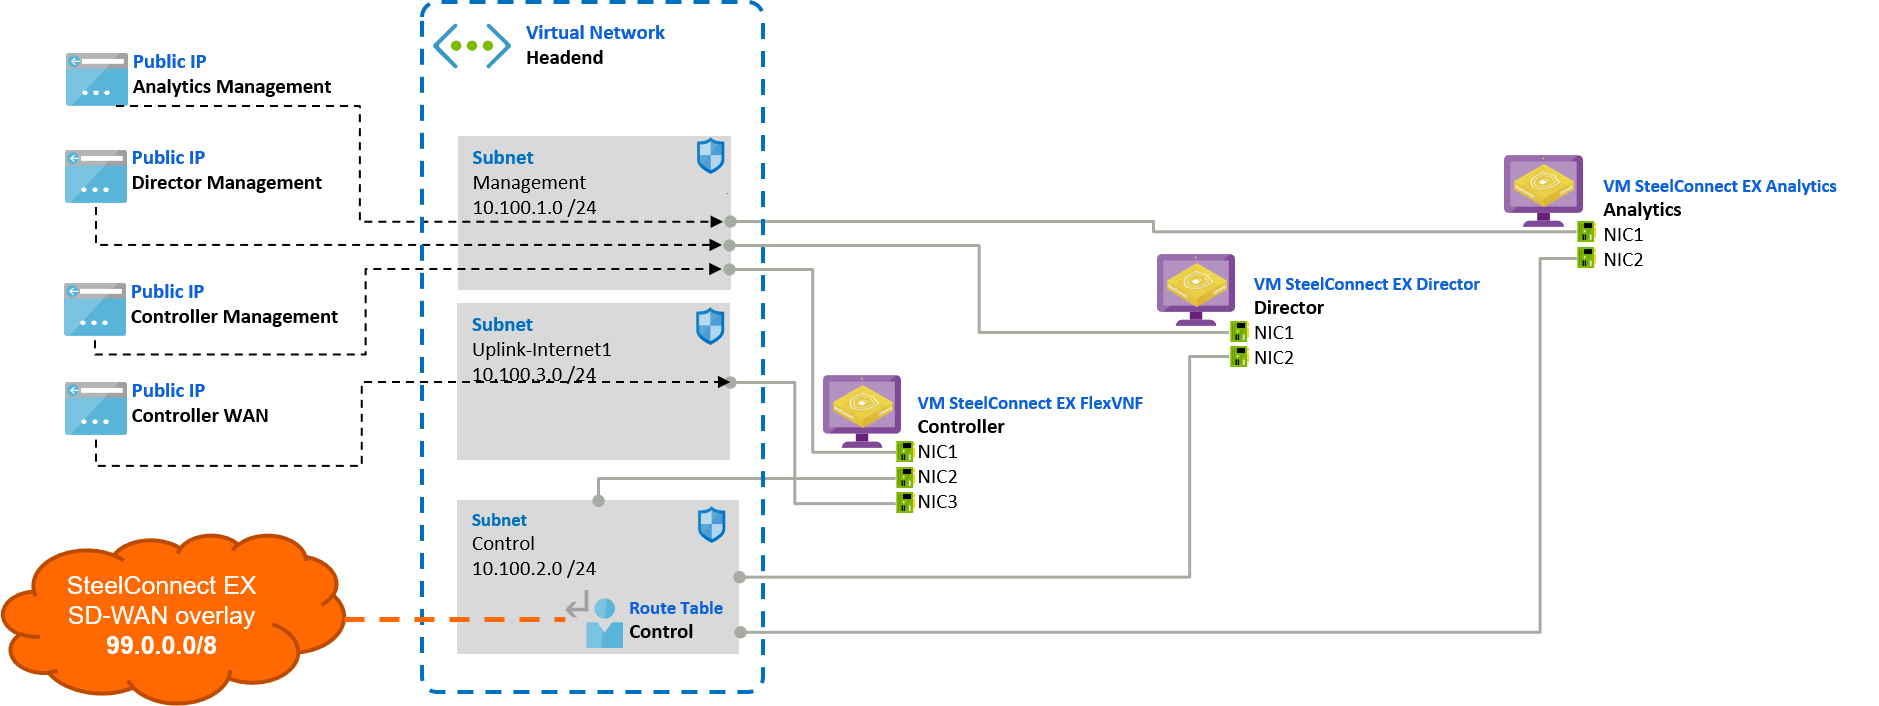
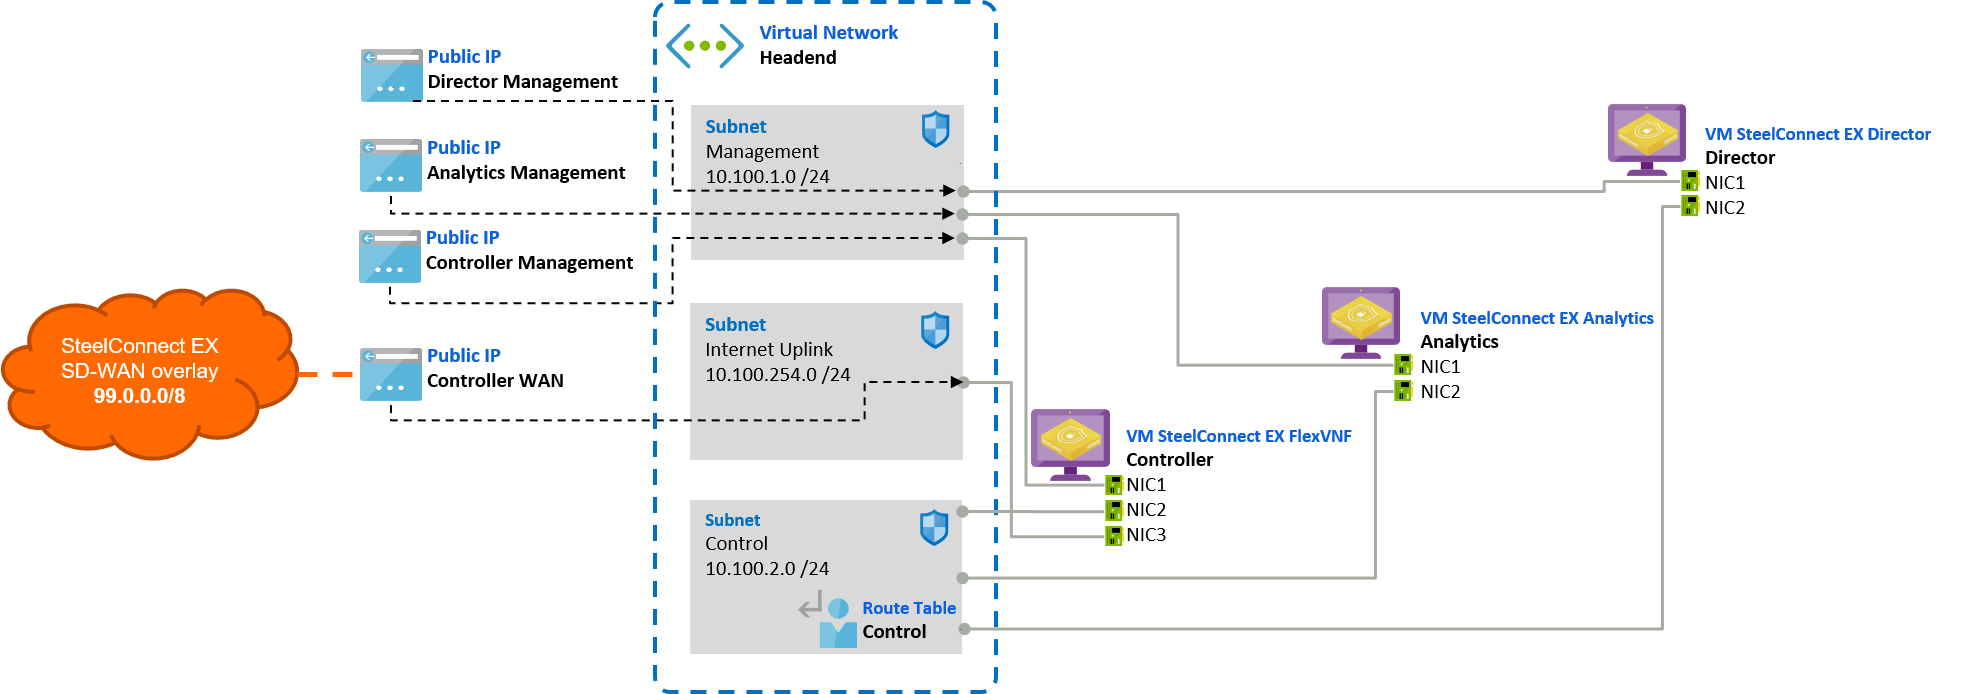
Update SteelConnect-EX in Azure easy cookbook

Changed region(s): [[0.0, 0.1513, 0.9878, 1.0], [0.0309, 0.0, 0.4939, 0.1513], [0.0, 0.7565, 0.1852, 1.0]]

diff --git a/SteelConnect/Azure-DeployHeadend/README.md b/SteelConnect/Azure-DeployHeadend/README.md
@@ -6,12 +6,15 @@
     - [1. Create Azure Image Resources](#1-create-azure-image-resources)
     - [2. Deploy using Terraform template](#2-deploy-using-terraform-template)
 - [Usage](#usage)
-    - [Configure your headend](#configure-your-headend)
-    - [Connect to the appliances](#connect-to-the-appliances)
+- [How to](#how-to)
 
 ## Overview
 
-This cookbook explains how to deploy a SteelConnect-EX Standalone Headend in Azure, in the location of your choice.
+The Riverbed Community Toolkit provides this cookbook to deploy an SteelConnect-EX Standalone Headend in Azure.
+
+Some easy steps are described in the prerequisites and deployment sections. The how-to section contains more details or advanced topics.
+
+With this cookbook you will deploy the architecture below in the Azure location of your choice.
 
 ![cloud architecture](images/steelconnect-ex-headend-standalone-architecture.png)
 
@@ -20,24 +23,34 @@ The Cookbook uses the following parameters and default values.
 | Parameters | Default Value |
 | --- | --- |
 | SD-WAN overlay network | 99.0.0.0 /8 |
-| VNET | 10.100.0.0/16 |
+| VNET | 10.100.0.0/16 <ul><li>Management subnet: 10.100.1/24</li><li>Control subnet: 10.100.2/24</li><li>Internet Uplink subnet: 10.100.254/24</li></ul>|
 | Azure VM Size | Standard_F8s_v2 |
 | Azure Location* | *no default value* |
-| SSH keypair | *generated in local files ssh-timestamp and ssh-timestamp.pub* |
-| passphrase of SSH key | riverbed-community |
+| SSH keypair | *generated in local files sshkey-timestamp and sshkey-timestamp.pub* |
+| SSH key passphrase | riverbed-community |
+| Analytics Southbound port | 1234 |
 
-> The cookbook let you choose any **Azure Location** for the deployment, for example **West-US**, **West-Europe** or **Korea Central**. Thus in some location the default VM size is not available, for example Standard_F8s_v2 is currently not available in Switzerland North, in that case please refer to the SteelConnect deployment guide and adapt the cookbook script parameters to use an other VM size.
+> Any **Azure Location** can be chosen for the deployment, for example **West-US**, **West-Europe** or **Korea Central**. Thus in some location the default VM size is not available, for example Standard_F8s_v2 is currently not available in Switzerland North, in that case please refer to the SteelConnect deployment guide and adapt the cookbook script parameters to use an other VM size.
 
 ## Prerequisites
 
+### 1. Azure subscription with enough vCPU Quota
+
 | Tasks | Description |
 | --- | --- |
-| 1. Connect to the Azure Portal and check there is enough vCPU available in the target location: navigate to your Subscription details, open Usage and Quota menu|<ul><li>Sign-in on [Azure portal](https://portal.azure.com)</li><li>At least **24 vCPU available for the Standard FsV2 Compute in the target Location**</li><li>Hit "Request Increase" button if you need more vCPU</li></ul>![quota](images/azure-westus-fsv2-quota.png)|
-| 2. Create a resource group in the location where you will deploy SteelConnect EX appliances| <ul><li>Resource Group name: **Riverbed-Images**</li><li>Location: **Target location for appliances**</li></ul> |
-| 3. Create a Storage Account resource  | <ul><li>Storage Account Name: *a unique name*</li><li>Location: **Target location for appliances**</li><li>Replication: Locally-redundant storage (LRS) is ok</li></ul> |
-| 4. Create a Blob container in the Storage Account previously created | <ul><li>Container name: **images**</li></ul> |
-| 5. Generate a temporary Shared Access Signature for this Storage Account/Container | <ul><li>End date: few days</li><li>Hit **Generate SAS and connection string**</li></ul>![azure-sa-sas-creation](images/azure-sa-sas-creation.png)|
-| 6. Send a request to Riverbed Support with the **SAS and connecting string** generated previously and check you received images in your Blob Container: FlexVNF, Director and Analytics |<ul><li>Request to [Riverbed Support](https://support.riverbed.com/)</li></ul> |
+| 1. Connect to the Azure Portal | <ul><li>Sign-in on [Azure portal](https://portal.azure.com)</li></ul> |
+| 2. Check there is enough vCPU available in the target location: navigate to your Subscription details, open Usage and Quota menu. If required hit "Request Increase" button to increase the quota |<ul><li> **24 vCPU available for the Standard FsV2 Compute in the target Location**</li></ul>![quota](images/azure-westus-fsv2-quota.png)|
+
+### 2. All the VHD in a Blob Container
+
+| Tasks | Description |
+| --- | --- |
+| 1. Create a resource group in the location where you will deploy SteelConnect EX appliances| <ul><li>Resource Group name: **Riverbed-Images**</li><li>Location: **your target location for appliances**</li></ul> |
+| 2. Create a Storage Account resource in the resource group previously created  | <ul><li>Storage Account Name: *a unique name*</li><li>Location: **your target location for appliances**</li><li>Replication: Locally-redundant storage (LRS) is ok</li></ul> |
+| 3. Create a Blob container in the Storage Account previously created | <ul><li>Container name: **images**</li></ul> |
+| 4. Generate a temporary Shared Access Signature for this Storage Account/Container. Hit **Generate SAS and connection string** button | <ul><li>Allowed services: Blob</li><li>End date: few days</li></ul>![azure-sa-sas-creation](images/azure-sa-sas-creation.png)|
+| 5. Send a request to Riverbed Support with the **SAS and connection string** generated previously |<ul><li>Request to [Riverbed Support](https://support.riverbed.com/)</li></ul> |
+| 6. Check that all the .vhd files are in the Blob Container |<ul><li>3 VHD files: SteelConnect EX FlexVNF, Director and Analytics</li></ul> |
 
 ## Deployment
 
@@ -46,7 +59,7 @@ The Cookbook uses the following parameters and default values.
 | Tasks | Description |
 | --- | --- |
 | 1. In the Azure Portal, navigate to the Resource group **Riverbed Images** |Go to [Azure portal](https://portal.azure.com)|
-| 2. Add new resource, select Image, and hit Create new| ![add button](images/azure-resource-group-add-button.png) |
+| 2. Add a new resource, select Image, and hit Create new| ![add button](images/azure-resource-group-add-button.png) |
 | 3. Fill parameters to create an Image resource for the **SteelConnect EX FlexVNF**| <ul><li>Name: **steelconnect-ex-flexvnf**</li><li>Location: **Target location** for appliances</li><li>OS disk type: **Linux**</li><li>Storage Blob: url of the **flexvnf vhd** in the storage account blobs container</li><li>Storage type: Premium SSD recommended</li></ul>|
 | 4. Repeat **step 2.** and fill the parameters to create an Image resource for the **SteelConnect EX Director**| <ul><li>Name: **steelconnect-ex-director**</li><li>Location: **Target location** for appliances</li><li>OS disk type: **Linux**</li><li>Storage Blob: url of the **director vhd** in the storage account blobs container</li><li>Storage type: Premium SSD recommended</li></ul>|
 | 5. Repeat **step 2.** and fill the parameters to create an Image resource for the **SteelConnect EX Analytics**| <ul><li>Name: **steelconnect-ex-analytics**</li><li>Location: **Target location** for appliances</li><li>OS disk type: **Linux**</li><li>Storage Blob: url of the **analytics vhd** in the storage account blobs container</li><li>Storage type: Premium SSD recommended</li></ul>|
@@ -72,7 +85,7 @@ The following PowerShell commands initialize the console and download the source
 # i.e check subscription and tenant id are correct
 Get-AzContext
 
-# Comment our the line below and replace {your subscription name} if you need to select a different subscription
+# uncomment the line below and replace {your subscription name} if you need to select a different subscription
 # Set-AzContext -SubscriptionName "{your subscription name}"
 
 # Get a local copy of the Riverbed Community Toolkit scripts from Github
@@ -81,7 +94,7 @@ git clone https://github.com/riverbed/Riverbed-Community-Toolkit.git
 
 #### 3. Stage variables for Terraform
 
-The following PowerShell commands prepare the parameters file *terraform.vartf* for Terraform and generate a keypair for SSH stored local files *ssh-timestamp* and *ssh-timestamp.pub*.
+The following PowerShell commands prepare the parameters file *terraform.vartf* for Terraform and generate a keypair for SSH stored local files *sshkey-timestamp* and *sshkey-timestamp.pub*.
 
 ```PowerShell
 Set-Location ./Riverbed-Community-Toolkit
@@ -92,7 +105,7 @@ Set-Location ./SteelConnect/Azure-DeployHeadend/scripts
 
 #### 4. Deploy Terraform
 
-The following PowerShell commands launch the deployment using Terraform ((init, plan and apply)
+The following PowerShell commands launch the deployment using Terraform (init, plan and apply)
 
 ```PowerShell
 ../../Azure-DeployHeadend/scripts/SteelConnect-EX_Deploy-Terraform.ps1
@@ -100,7 +113,7 @@ The following PowerShell commands launch the deployment using Terraform ((init, 
 
 #### 5. Keep the output
 
-After 3 to 5 minutes, the deployment finishes and the Terraform deployment output gives useful information such as WebConsole URL and Public IP for each appliance.
+Usually after 5 to 6 minutes, the deployment finishes and the Terraform deployment output gives useful information such as WebConsole URL and Public IP for each appliance.
 
 ![terraform output](./images/steelconnect-ex-terraform-output.png)
 
@@ -110,35 +123,74 @@ In the Azure portal, the resource group contains all the resources.
 
 ## Usage
 
-### Configure your headend
-
 At this point you should be good to configure your headend as you have learnt during the bootcamp. Typically you will:
-- Set administrators password
+- Define a connector to the Analytics cluster and register your analytics node
 - Create the initial Organization and some others using the workflow
-- Create an Analytics cluster
 - Deploy a controller with staging capabilities using the workflow
 - Check VPN profile id details on the staging controller
-- Define device creation workflow and try onboarding some devices
-- Generate a nodesid to obtain a license
+- Define workflow template for device creation and try onboarding some devices
+- For Security, set strong passwords, filter management traffic or just remove the un-necessary Public IPs bound to management NICs in Azure (for example remove the management public IP of the Controller and the Analytics)
+- Generate a license request
 - ...
 - and more
 
-### Connect to the appliances
+The very next step is probably to connect to the admin GUI of the Director and the Analytics (screenshot below). You can also access CLI via Azure Serial Console or SSH.
 
-Appliances can be accessed via Azure Serial Console, SSH or Webconsole.
+| Director | Analytics |
+| --- | --- |
+| [https://{{your-director-public-IP}}]() ![directory gui](images/admin-director-gui.png) | [http://{{your-analytics-public-IP}}:8080]() ![directory gui](images/admin-analytics-gui.png) |
 
-- For example, connect to the Director VM with Azure Serial Console:
+## How to
+
+### Remove un-necesseray Public IP
+
+Typically Analytics and Controller might not need to be exposed on Internet. 
+In the Azure Portal navigate to the Public IP resource. You need first to dissociate and then you can delete it. For example:
+
+![delete analytics public ip](images/azure-delete-public-ip.png)
+
+
+### CLI console access
+
+In the Azure Portal navigate to the Virtual Machine resource corresponding to your applance. In the left menu scroll down to the Support - troubleshooting section to find the Serial console. For example on the Director:
 
 ![resource group](images/steelconnect-ex-director-serial-console.png)
 
-- For example, connect to the webconsole  of the Director: [https://{{your Director public IP}}]()
+ ### Connect to appliances using SSH
 
-- For example, connect to the Directory VM with SSH using the generated keypair protected with a passphrase (see [cookbook default values](#overview)). 
+The appliance are configured for SSH Public Key authentifcation.
+
+For example the following command show how to connect to the public IP of Director:
+- replace **{{your sshkey-timestamp}}** with the actual file name generated in the current directory
+- replace **{{your Director public IP}}** with the actual IP of the Director, see terraform output
 
 ```shell
-# replace {{your sshkey-timestamp}} with the actual file name generated in the current directory
-# replace {{your Director public IP}} with the actual IP of the Director, see terraform output
 ssh -i {{your sshkey-timestamp}} Administrator@{{your Director public IP}}
 ```
+
+ ### Find the generated keypair
+
+By default, the deployment process generates a keypair. The private key stored in a local file *sshkey-timestamp* in the deployment) proteced by a passphrase (see [cookbook default values](#overview)).
+
+To find the key
+```
+Set-Location ./Riverbed-Community-Toolkit
+Set-Location ./SteelConnect/Azure-EX-Templates/he_standalone
+Get-ChildItem sshkey-*
+```
+
+Example of output:
+
+```output
+sshkey-200621204051
+sshkey-200621204051.pub
+```
+
+### Download the ssh key
+
+From the Cloud Shell, in the menu select Download and fill the path of the sshkey file. For example: "Riverbed-Community-Toolkit/SteelConnect/Azure-EX-Templates/he_standalone/sshkey-200621204051"
+
+![images](images/azure-cloudshell-download-sshkey-timestamp.png)
+
 
 ## Copyright (c) 2020 Riverbed Technology
